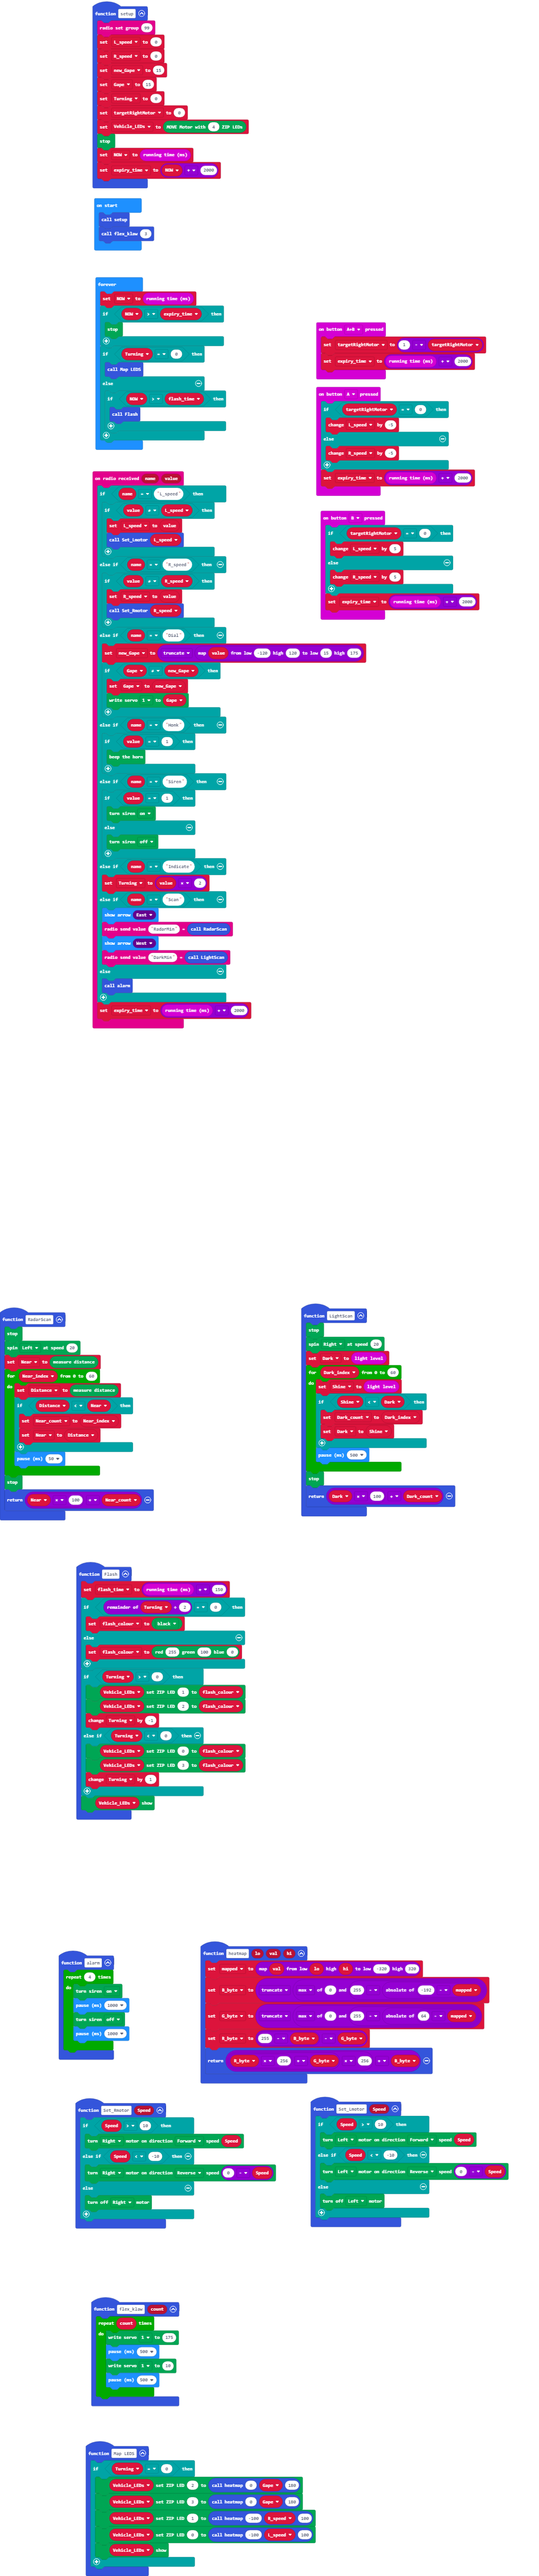
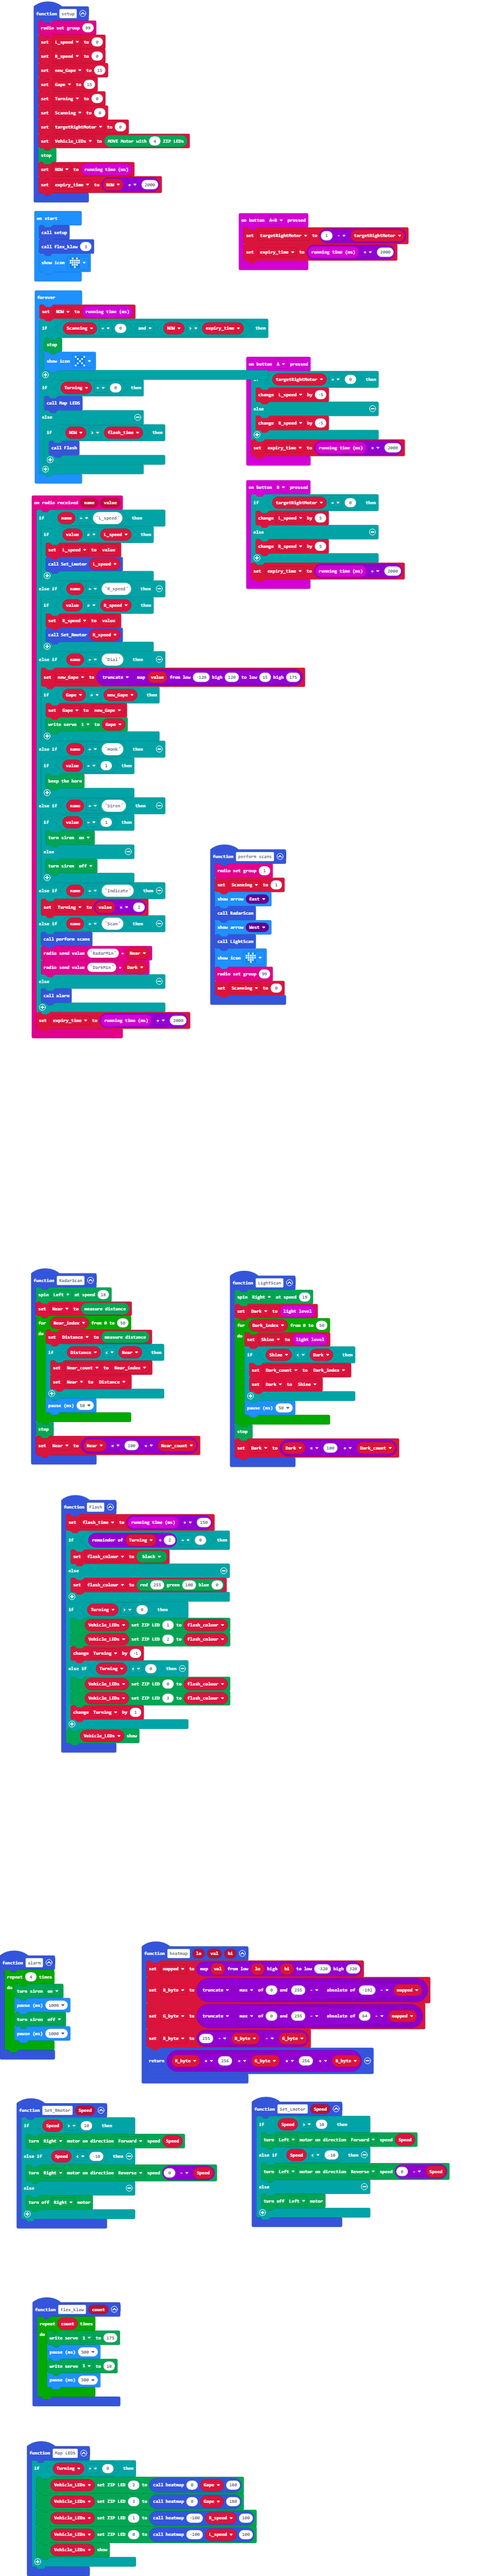
prevent expiry while scanning; tune scan rotation speed

diff --git a/main.ts b/main.ts
@@ -24,6 +24,17 @@ input.onButtonPressed(Button.A, function () {
     }
     expiry_time = input.runningTime() + 2000
 })
+function perform_scans () {
+    radio.setGroup(1)
+    Scanning = 1
+    basic.showArrow(ArrowNames.East)
+    RadarScan()
+    basic.showArrow(ArrowNames.West)
+    LightScan()
+    basic.showIcon(IconNames.Heart)
+    radio.setGroup(99)
+    Scanning = 0
+}
 function alarm () {
     for (let index = 0; index < 4; index++) {
         Kitronik_Move_Motor.soundSiren(Kitronik_Move_Motor.OnOffSelection.On)
@@ -33,19 +44,18 @@ function alarm () {
     }
 }
 function LightScan () {
-    Kitronik_Move_Motor.stop()
-    Kitronik_Move_Motor.spin(Kitronik_Move_Motor.SpinDirections.Right, 20)
+    Kitronik_Move_Motor.spin(Kitronik_Move_Motor.SpinDirections.Right, 19)
     Dark = input.lightLevel()
-    for (let Dark_index = 0; Dark_index <= 60; Dark_index++) {
+    for (let Dark_index = 0; Dark_index <= 50; Dark_index++) {
         Shine = input.lightLevel()
         if (Shine < Dark) {
             Dark_count = Dark_index
             Dark = Shine
         }
-        basic.pause(500)
+        basic.pause(50)
     }
     Kitronik_Move_Motor.stop()
-    return Dark * 100 + Dark_count
+    Dark = Dark * 100 + Dark_count
 }
 function heatmap (lo: number, val: number, hi: number) {
     mapped = Math.map(val, lo, hi, -320, 320)
@@ -73,6 +83,7 @@ function setup () {
     new_Gape = 15
     Gape = 15
     Turning = 0
+    Scanning = 0
     targetRightMotor = 0
     Vehicle_LEDs = Kitronik_Move_Motor.createMoveMotorZIPLED(4)
     Kitronik_Move_Motor.stop()
@@ -109,20 +120,18 @@ radio.onReceivedValue(function (name, value) {
     } else if (name == "Indicate") {
         Turning = value * 2
     } else if (name == "Scan") {
-        basic.showArrow(ArrowNames.East)
-        radio.sendValue("RadarMin", RadarScan())
-        basic.showArrow(ArrowNames.West)
-        radio.sendValue("DarkMin", LightScan())
+        perform_scans()
+        radio.sendValue("RadarMin", Near)
+        radio.sendValue("DarkMin", Dark)
     } else {
         alarm()
     }
     expiry_time = input.runningTime() + 2000
 })
 function RadarScan () {
-    Kitronik_Move_Motor.stop()
-    Kitronik_Move_Motor.spin(Kitronik_Move_Motor.SpinDirections.Left, 20)
+    Kitronik_Move_Motor.spin(Kitronik_Move_Motor.SpinDirections.Left, 18)
     Near = Kitronik_Move_Motor.measure()
-    for (let Near_index = 0; Near_index <= 60; Near_index++) {
+    for (let Near_index = 0; Near_index <= 50; Near_index++) {
         Distance = Kitronik_Move_Motor.measure()
         if (Distance < Near) {
             Near_count = Near_index
@@ -131,7 +140,7 @@ function RadarScan () {
         basic.pause(50)
     }
     Kitronik_Move_Motor.stop()
-    return Near * 100 + Near_count
+    Near = Near * 100 + Near_count
 }
 function flex_klaw (count: number) {
     for (let index = 0; index < count; index++) {
@@ -185,16 +194,19 @@ let mapped = 0
 let Dark_count = 0
 let Shine = 0
 let Dark = 0
+let Scanning = 0
 let expiry_time = 0
 let R_speed = 0
 let L_speed = 0
 let targetRightMotor = 0
 setup()
 flex_klaw(3)
+basic.showIcon(IconNames.Heart)
 basic.forever(function () {
     NOW = input.runningTime()
-    if (NOW > expiry_time) {
+    if (Scanning == 0 && NOW > expiry_time) {
         Kitronik_Move_Motor.stop()
+        basic.showIcon(IconNames.No)
     }
     if (Turning == 0) {
         Map_LEDS()
